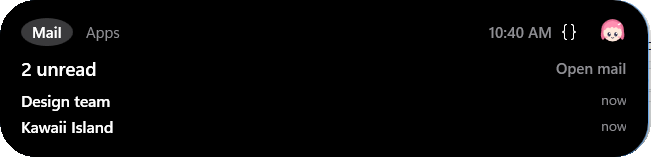
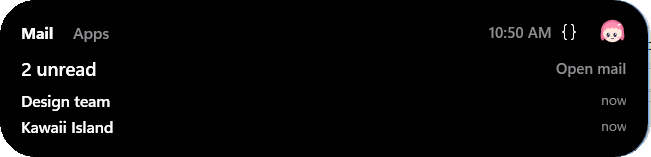
Tabs: no oval highlight; selected tab is bold bright text

diff --git a/windows/src/KawaiiIsland/IslandWindow.xaml b/windows/src/KawaiiIsland/IslandWindow.xaml
@@ -80,12 +80,14 @@
         <Style x:Key="Tab" TargetType="RadioButton">
             <Setter Property="Foreground" Value="{DynamicResource IslandMuted}"/>
             <Setter Property="FontFamily" Value="{DynamicResource IslandFont}"/>
-            <Setter Property="FontSize" Value="12"/>
+            <Setter Property="FontSize" Value="12.5"/>
+            <Setter Property="FontWeight" Value="Medium"/>
             <Setter Property="Focusable" Value="False"/>
             <Setter Property="Template">
                 <Setter.Value>
                     <ControlTemplate TargetType="RadioButton">
-                        <Border x:Name="Bg" Background="Transparent" CornerRadius="99" Padding="9,3" Margin="0,0,2,0">
+                        <!-- No background shape: the selected tab is just bright, bold text -->
+                        <Border Background="Transparent" Padding="0,3" Margin="0,0,16,0">
                             <ContentPresenter/>
                         </Border>
                         <ControlTemplate.Triggers>
@@ -93,9 +95,8 @@
                                 <Setter Property="Foreground" Value="{DynamicResource IslandText}"/>
                             </Trigger>
                             <Trigger Property="IsChecked" Value="True">
-                                <Setter TargetName="Bg" Property="Background" Value="{DynamicResource IslandTrack}"/>
                                 <Setter Property="Foreground" Value="{DynamicResource IslandText}"/>
-                                <Setter Property="FontWeight" Value="SemiBold"/>
+                                <Setter Property="FontWeight" Value="Bold"/>
                             </Trigger>
                         </ControlTemplate.Triggers>
                     </ControlTemplate>
